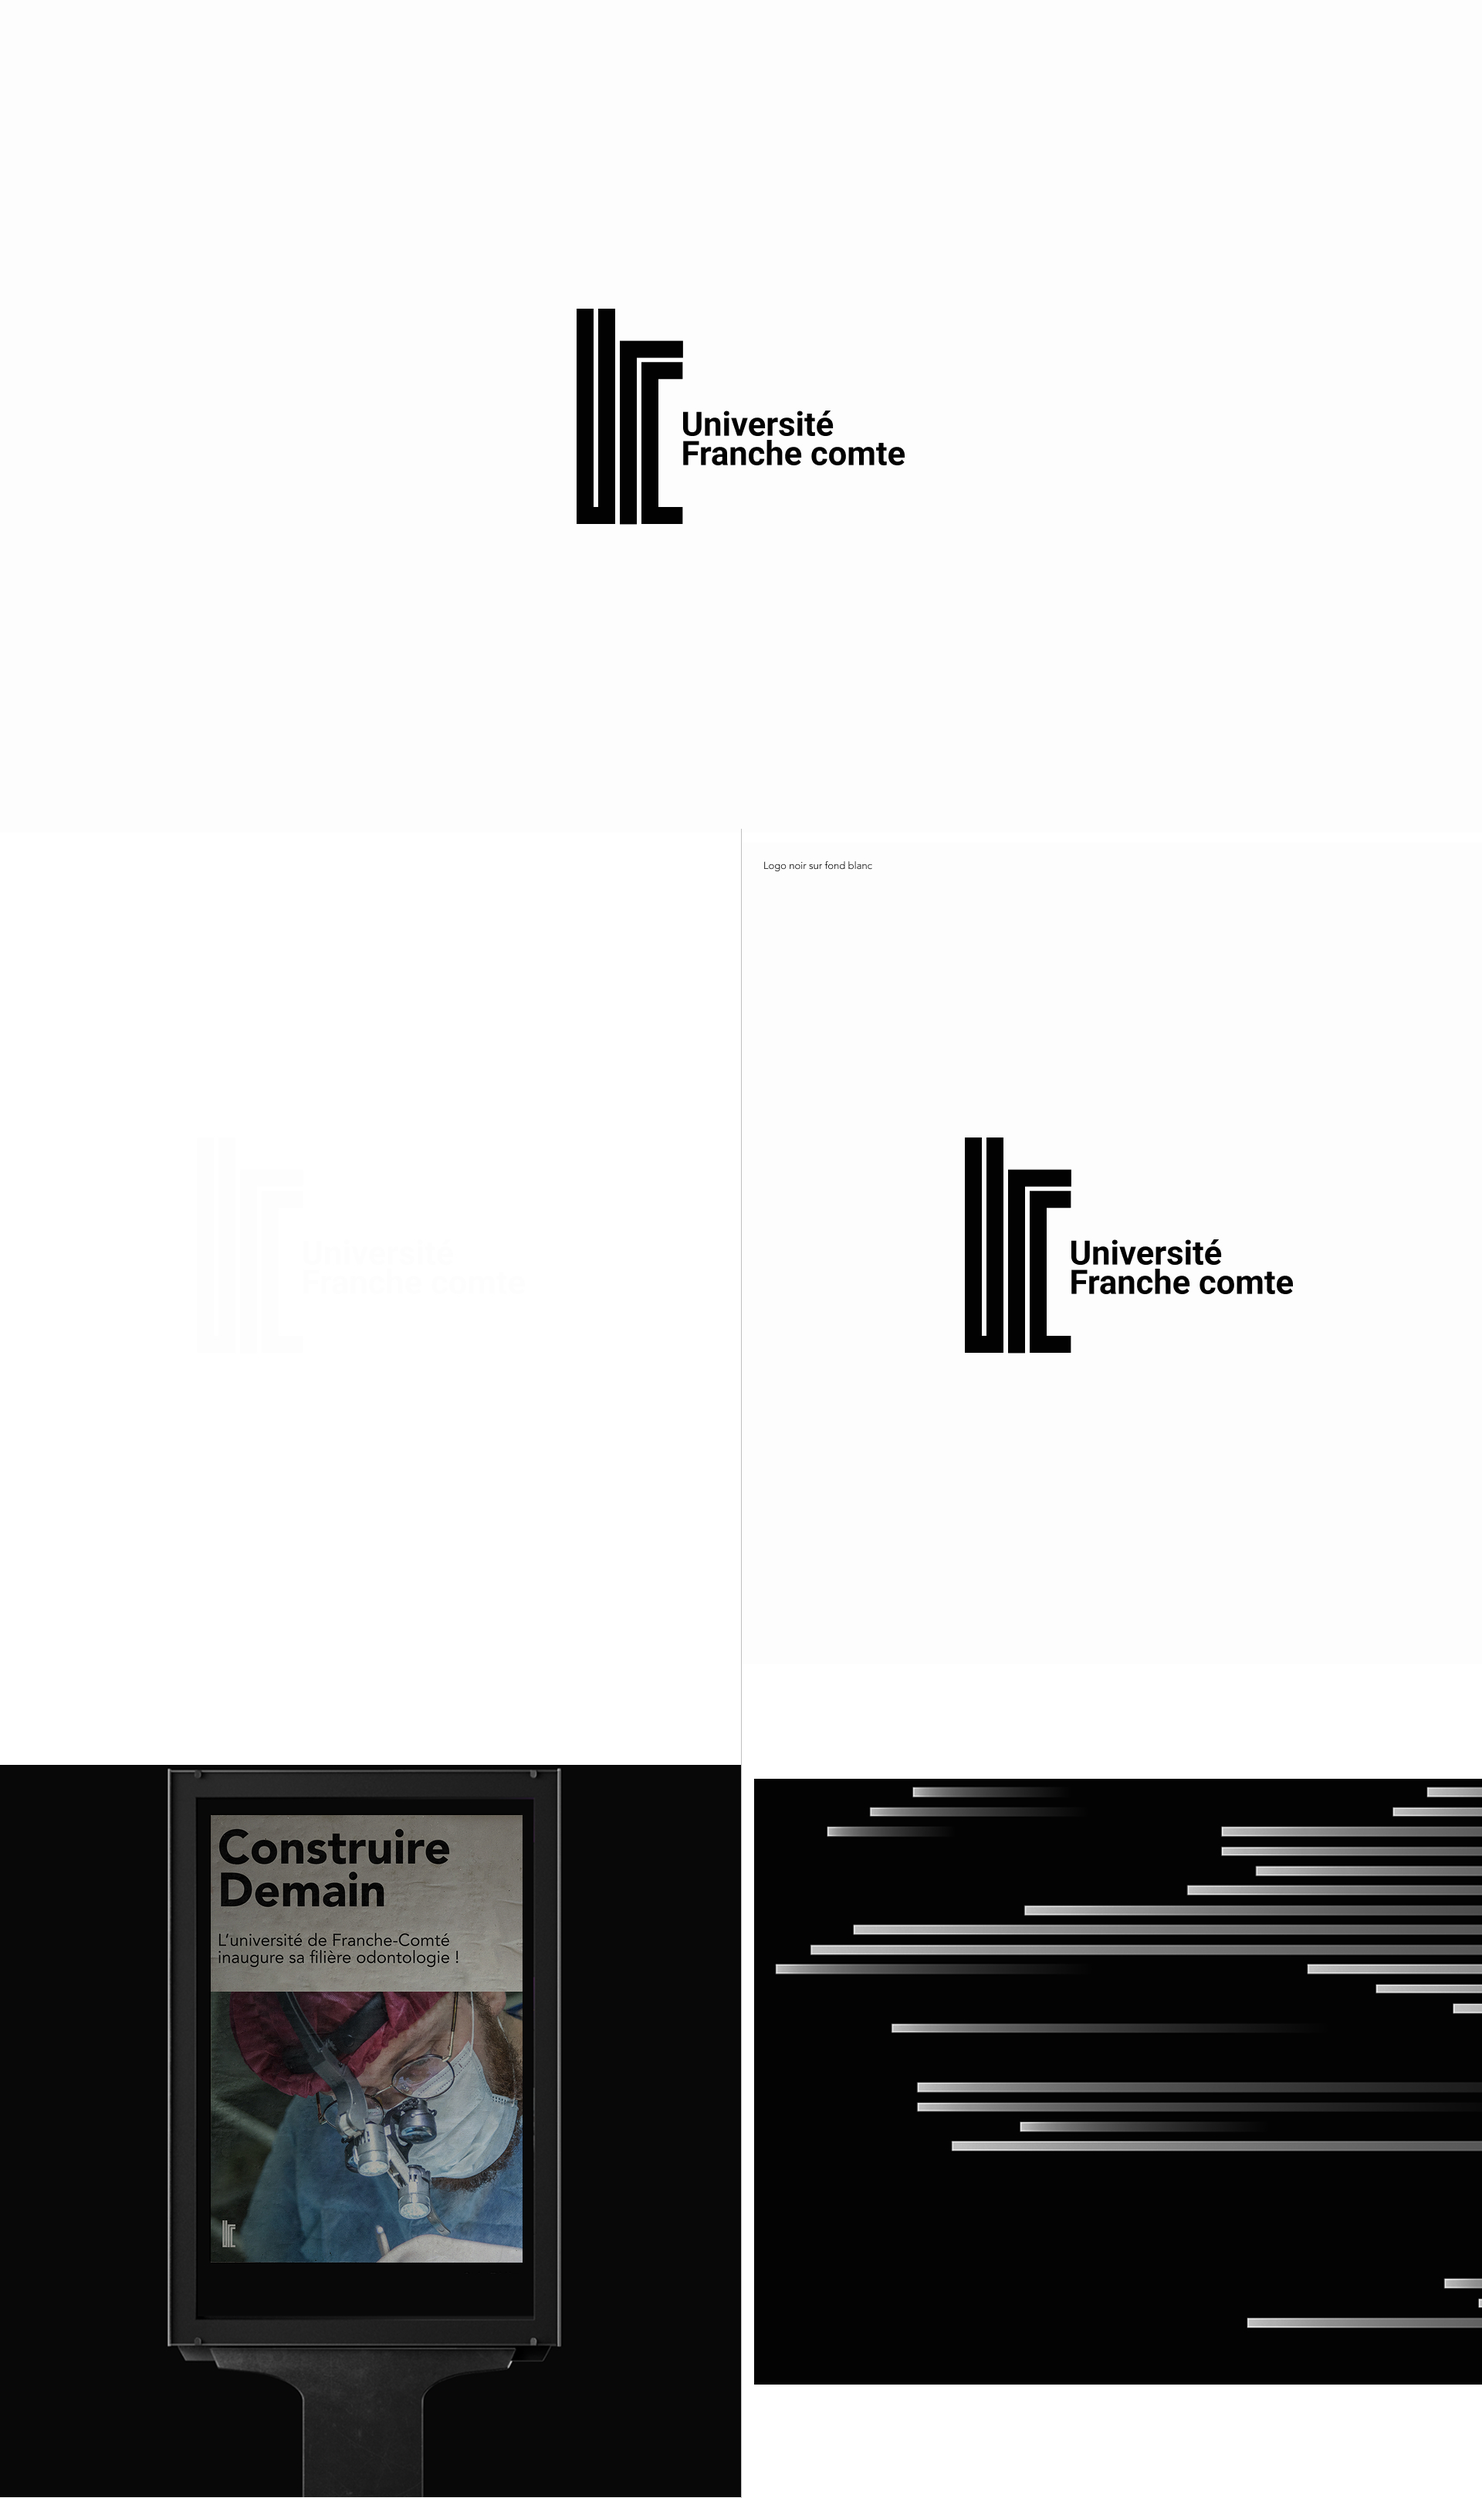
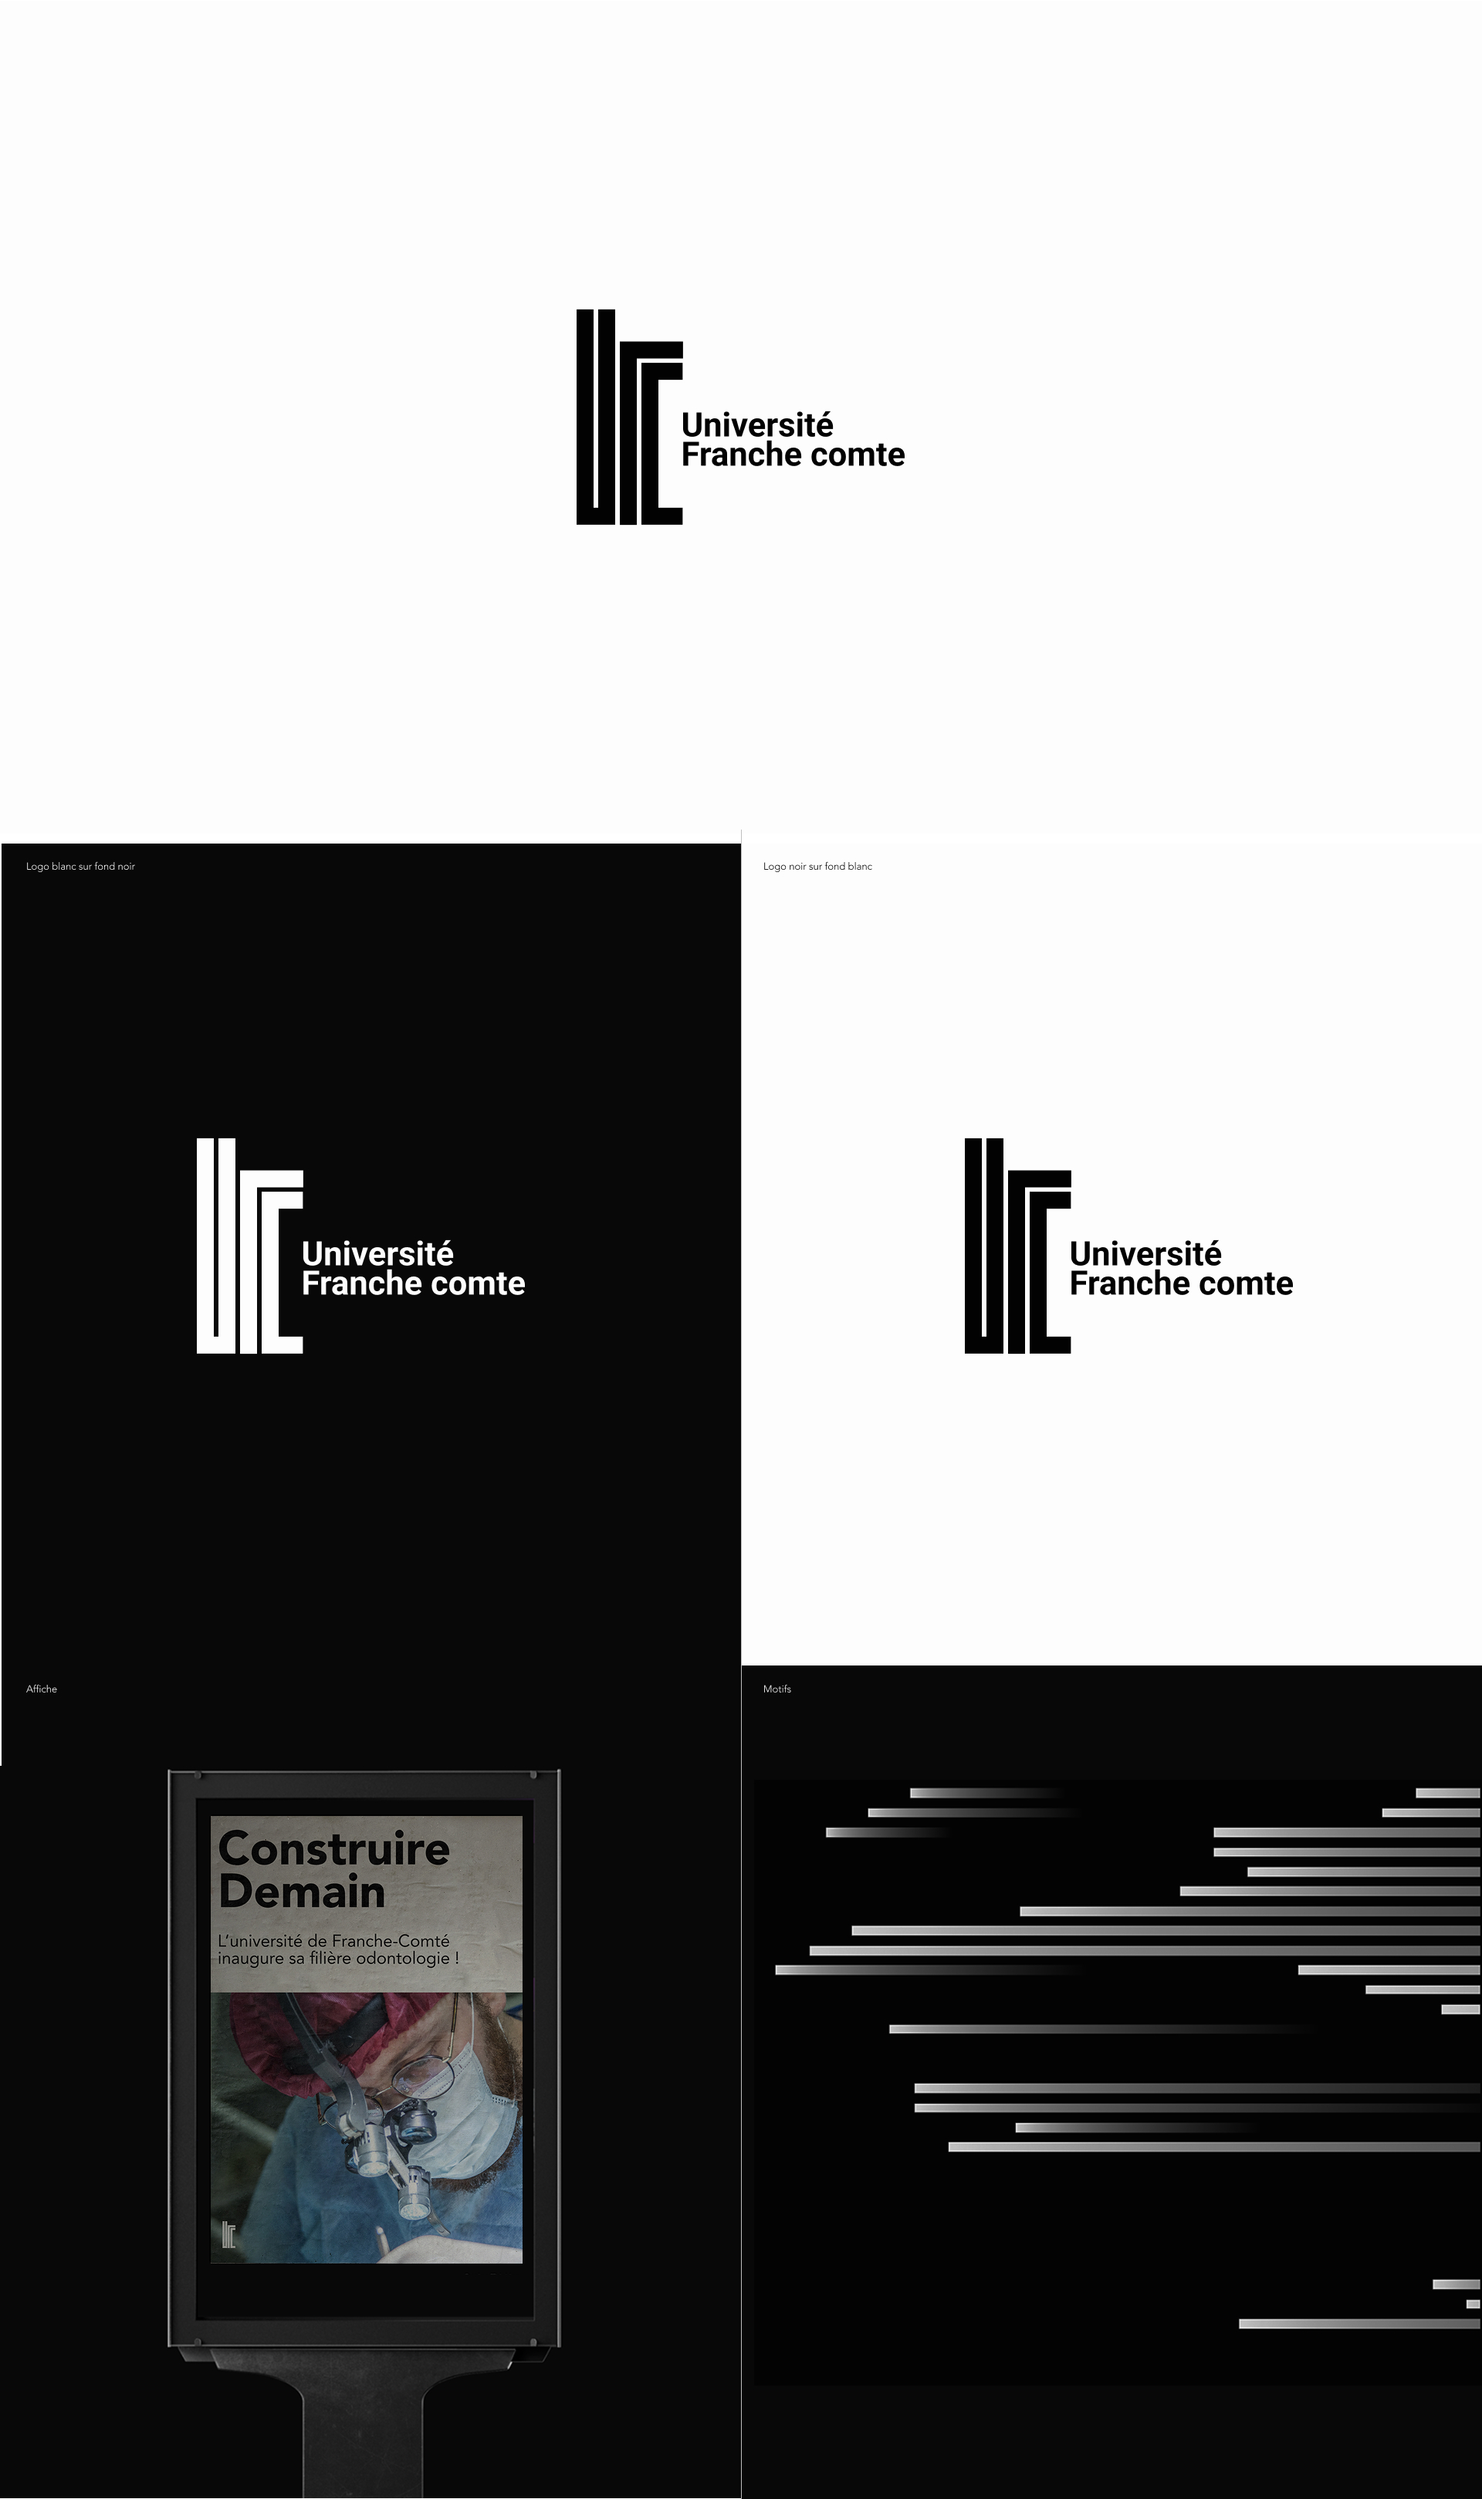
test

Changed region(s): [[0.0, 0.312, 1.0, 1.0], [0.5312, 0.156, 0.5625, 0.1872]]

diff --git a/_projects/work-UFC.html b/_projects/work-UFC.html
@@ -18,9 +18,43 @@ illustration:
     alt: Identité visuelle de l'université de Franche-Comté
 ---
 
+<div class="flex__text">
+  <div>
+    <h3>À propos</h3>
+  </div>
+  <div>
+    <p>Au cours des six derniers siècles, l’Université de Franche-Comté a été un bastion de l’excellence académique, un gardien de l’héritage et de la tradition, un catalyseur de l’innovation et de la modernité, un défenseur de l’ouverture d’esprit et de la diversité, et un pionnier de l’engagement envers la durabilité environnementale.</p>
+  </div>
+</div>
 
-<img src="assets/public/img/projets/identité-UFC-1.jpg" alt="Maquette-UFC">
-<img src="assets/public/img/projets/identité-UFC-2.jpg" alt="Maquette-U2C">
+<img src="assets/public/img/projets/UFC-mockups-fr.jpg" alt="UFC-mockups">
+<img src="assets/public/img/projets/fonds-motifs-UFC-fr.jpg" alt="UFC-mockups">
+<img src="assets/public/img/projets/tote-bag-mockup-UFC-fr.jpg" alt="UFC-mockups">
+
+<div class="flex__text">
+  <div>
+    <h3>Logo</h3>
+  </div>
+  <div>
+    <p>Tous les éléments du logo sont et doivent être alignés, de manière régulière. La régularité est une signature du logo, et fait référence à une des valeurs de l’université.
+
+Ces espacements sont valables pour la dimension de 100px par 50px, soit la taille minimale du logo..</p>
+  </div>
+</div>
+
+<div class="center">
+    <img src="assets/public/img/projets/dimensions-logo-UFC-fr.jpg" alt="UFC-mockups">
+
+    <img src="assets/public/img/projets/couleurs-UFC-fr.jpg" alt="UFC-mockups">
+    <img src="assets/public/img/projets/Typographies-UFC-fr.jpg" alt="UFC-mockups">
+
+    <img src="assets/public/img/projets/Layout-UFC-fr.jpg" alt="UFC-mockups">
+    <img src="assets/public/img/projets/affiches-UFC-fr.jpg" alt="UFC-mockups">
+        <img src="assets/public/img/projets/iphone-mockup-UFC-fr.png" alt="UFC-mockups">
+</div>
+
+
+
 
 
 

diff --git a/assets/src/css/bases/works.css b/assets/src/css/bases/works.css
@@ -160,3 +160,7 @@ color: var(--impure-black);
   object-fit: cover;
 }
 
+
+.center {
+  justify-items: center;
+}
